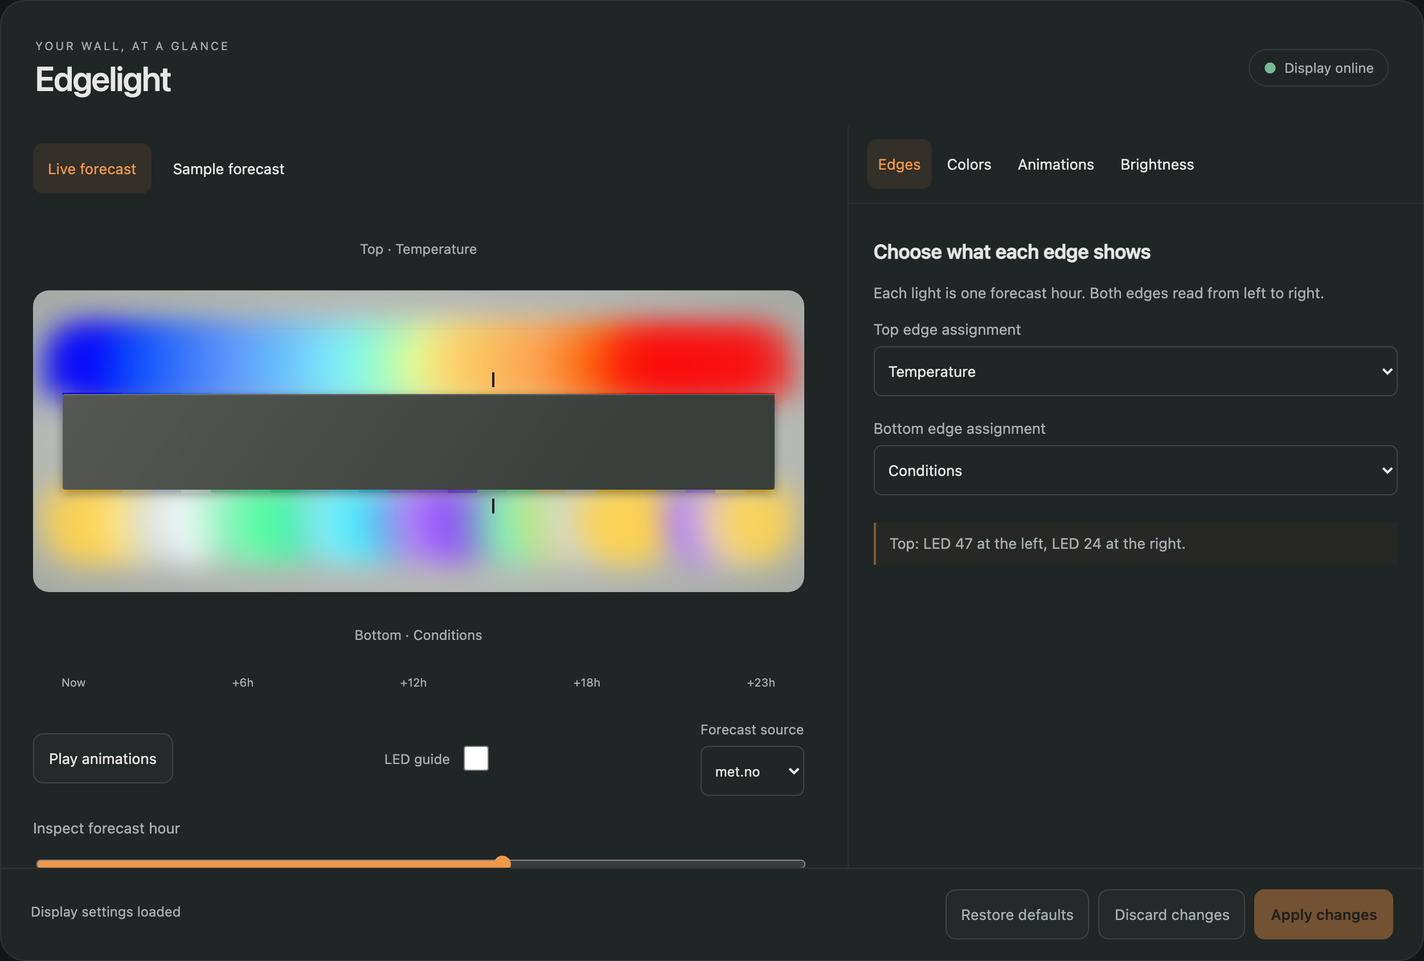
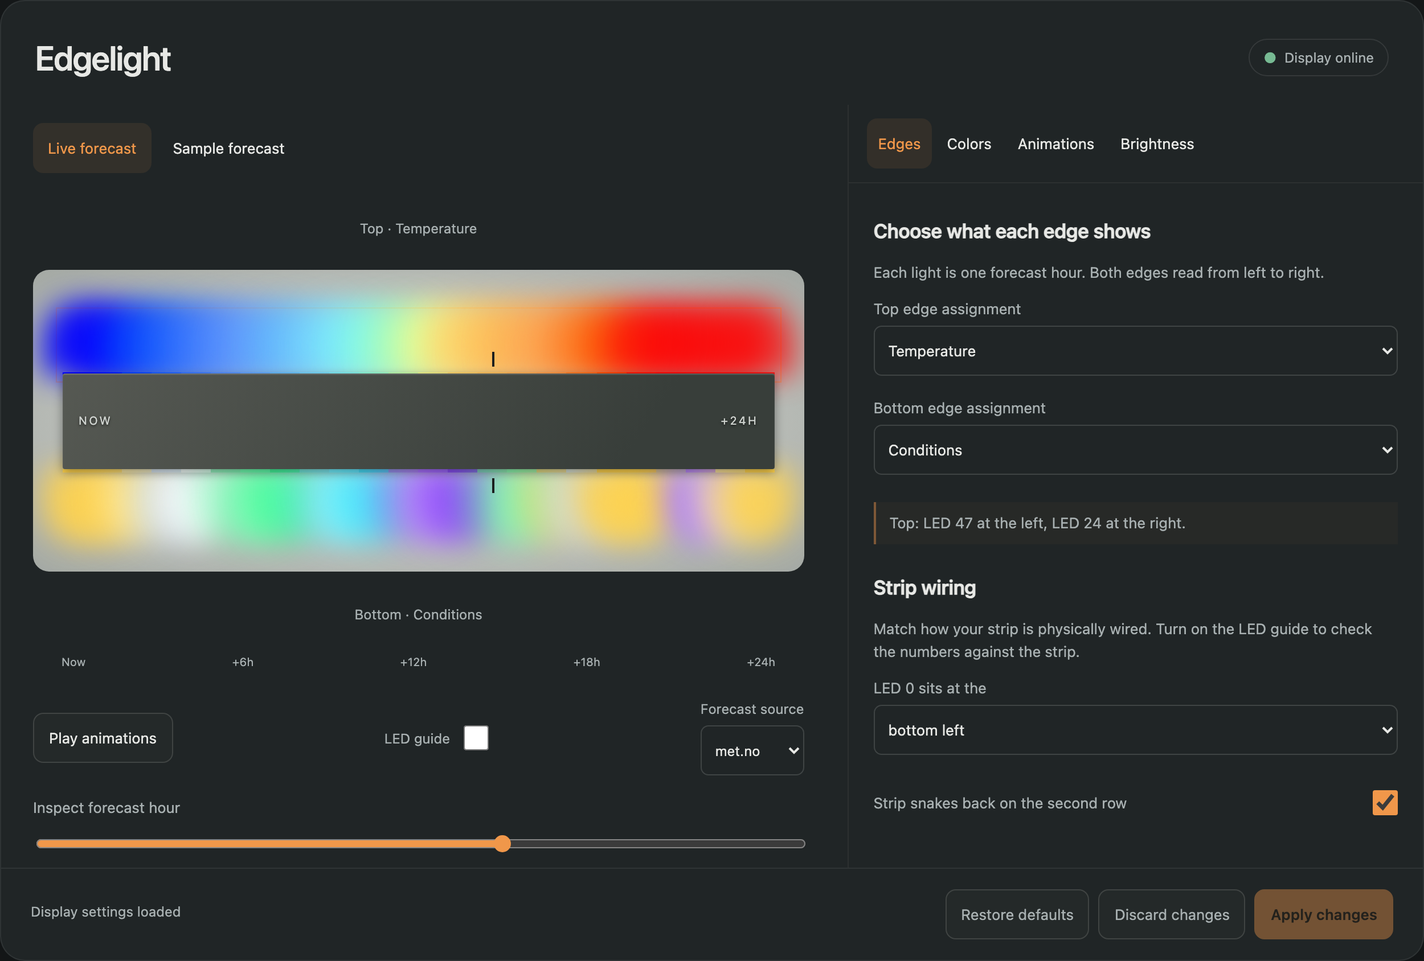
card: drop the header eyebrow and the stops blurb; Now / +24h markers on the bar

diff --git a/web/edgelight.css b/web/edgelight.css
@@ -1,3 +1,3 @@
 :host{display:block;container-type:inline-size;color:var(--text);font-family:var(--paper-font-body1_-_font-family,system-ui);--accent:#f0974a;--surface:var(--ha-card-background,var(--card-background-color,#202526));--text:var(--primary-text-color,#e7e8e5);--muted:var(--secondary-text-color,#a8b0b1)}
-*{box-sizing:border-box}article{display:flex;flex-direction:column;height:calc(100dvh - var(--header-height,56px));background:var(--surface);border:1px solid color-mix(in srgb,var(--text) 8%,transparent);border-radius:22px;overflow:hidden;box-shadow:0 10px 36px #0002}header{display:flex;justify-content:space-between;align-items:center;padding:28px 30px 20px}h2{font-size:30px;font-weight:550;letter-spacing:-1px;margin:4px 0}h3{font-size:17px;font-weight:550;margin:10px 0 16px}.eyebrow{font-size:10px;letter-spacing:1.8px;color:var(--muted)}p,.hint{font-size:13px;line-height:1.6;color:var(--muted)}.connection{font-size:12px;color:var(--muted);border:1px solid color-mix(in srgb,var(--text) 11%,transparent);padding:8px 12px;border-radius:20px}.connection:before{content:'●';margin-right:7px}.connection.online:before{color:#77ba93}.workspace{display:grid;grid-template-columns:minmax(0,1.45fr) minmax(320px,1fr);gap:10px;flex:1;min-height:0}.visual{padding:16px 28px;min-width:0;min-height:0;overflow:auto}.modes{display:flex;gap:6px}.modes button,nav button{border:0;background:transparent}.modes button[aria-pressed=true],nav button[aria-pressed=true]{background:color-mix(in srgb,var(--accent) 9%,transparent);color:var(--accent)}button,select,input{font:inherit}button,select,input:not([type=range]){min-height:44px}button{border:1px solid color-mix(in srgb,var(--text) 14%,transparent);border-radius:9px;background:color-mix(in srgb,var(--text) 2%,transparent);color:inherit;padding:8px 13px;cursor:pointer;font-size:13px}button:hover{background:color-mix(in srgb,var(--text) 7%,transparent)}button:disabled{opacity:.4;cursor:default}button:focus-visible,input:focus-visible,select:focus-visible,[role=button]:focus-visible{outline:2px solid var(--accent);outline-offset:3px}button.primary{background:var(--accent);border-color:var(--accent);color:#291c0f;font-weight:600}.scene{position:relative;margin-top:26px}.wall{position:relative;height:265px;margin:15px 0;background:radial-gradient(ellipse at center,#d6d7d0 0,#bdc0bb 55%,#a4a9a4 100%);border-radius:14px;overflow:hidden;padding:0 26px}.bar{position:absolute;z-index:3;top:91px;left:26px;right:26px;height:84px;background:linear-gradient(125deg,#565953,#383e3a 80%);box-shadow:0 3px 9px #0006,inset 0 1px 1px #ffffff30;border-radius:2px}.edge{display:flex;position:absolute;left:26px;right:26px;height:54px;z-index:2;cursor:pointer}.edge.top{top:39px}.edge.bottom{top:175px}.source{position:relative;flex:1;min-width:0;height:100%;--line:color-mix(in srgb,var(--glow) calc(var(--glow-alpha,1)*100%),transparent)}.top .source{background:linear-gradient(to top,var(--line) 3px,transparent 3px)}.bottom .source{background:linear-gradient(to bottom,var(--line) 3px,transparent 3px)}.source:before{content:'';position:absolute;left:-70%;width:240%;height:65px;background:var(--glow);filter:blur(13px);opacity:calc(var(--glow-alpha,1)*.85);pointer-events:none}.top .source:before{bottom:0;border-radius:70% 70% 0 0}.bottom .source:before{top:0;border-radius:0 0 70% 70%}.source i{display:none}.guide .source i{display:block;position:absolute;font-size:9px;font-style:normal;color:#1c1f1e;left:0;right:0;text-align:center;pointer-events:none}.guide .top .source i{bottom:30px}.guide .bottom .source i{top:28px}.guide .source{border:1px solid #0006}.source.inspected:after{content:'';position:absolute;width:2px;background:#1c1f1e;height:13px;left:50%;z-index:5}.top .source.inspected:after{bottom:8px}.bottom .source.inspected:after{top:8px}.edge-label{display:block;margin:auto;background:transparent;border:0;color:var(--muted);font-size:12px}.edge.selected{outline:1px solid color-mix(in srgb,var(--accent) 50%,transparent);outline-offset:5px}.timeline{display:flex;justify-content:space-between;padding:14px 25px;font-size:10px;color:var(--muted)}.preview-tools{display:flex;align-items:center;justify-content:space-between;gap:8px;flex-wrap:wrap;margin:14px 0}.preview-tools label{font-size:12px}.hour-picker{margin-top:20px}.details{display:flex;justify-content:space-between;gap:10px;padding:18px 0;font-size:14px}.details strong{display:block;font-size:19px;font-weight:500;margin-top:7px}.details small{font-size:11px;color:var(--muted)}.forecast-status{font-size:11px;min-height:20px}.editor{display:flex;flex-direction:column;border-left:1px solid color-mix(in srgb,var(--text) 6%,transparent);min-width:0;min-height:0;overflow:auto}nav{display:flex;gap:3px;flex-wrap:wrap;padding:12px 16px;border-bottom:1px solid color-mix(in srgb,var(--text) 6%,transparent)}nav button{padding:8px 10px}.controls{flex:1;min-height:0;padding:22px;overflow:auto;scrollbar-width:thin;scrollbar-color:color-mix(in srgb,var(--text) 30%,transparent) transparent}.controls>label{margin-bottom:20px}label{display:block;font-size:13px;color:var(--muted)}select,input[type=number],.hex{display:block;width:100%;background:var(--surface);color:var(--text);border:1px solid color-mix(in srgb,var(--text) 16%,transparent);border-radius:7px;padding:8px;margin-top:7px}select{color:var(--text)}input[type=range]{width:100%;accent-color:var(--accent);min-height:44px}input[type=checkbox]{accent-color:var(--accent);width:22px;min-height:44px;margin:0}.toggle{display:flex;justify-content:space-between;align-items:center;gap:12px}.range{display:flex;align-items:center;gap:12px}.range output{width:44px;color:var(--text);font-variant-numeric:tabular-nums}.color-row{display:grid;grid-template-columns:1fr 44px 95px;gap:8px;align-items:center;margin:8px 0}.color-row input[type=color]{padding:2px;width:44px;border:1px solid color-mix(in srgb,var(--text) 13%,transparent);background:none;border-radius:9px;cursor:pointer}.hex{font-family:monospace;font-size:12px;margin:0;padding:6px}.stop{display:grid;grid-template-columns:80px 1fr 44px;gap:8px;align-items:end;margin-bottom:12px}.stop .color-row{grid-template-columns:44px 1fr;margin:0}.stop .color-row>span{display:none}.stop input[type=number]{width:80px}.stop button{padding:4px}.stops+h3,h3:not(:first-child){margin-top:28px}.wet-swatches{display:flex;gap:14px;flex-wrap:wrap;font-size:11px;color:var(--muted);margin:14px 0}.wet-swatches span{display:inline-block;width:22px;height:22px;border-radius:5px;margin:4px 2px;vertical-align:middle}section{padding-bottom:22px;border-bottom:1px solid color-mix(in srgb,var(--text) 8%,transparent);margin-bottom:24px}section>label{margin-bottom:12px}.hint{border-left:2px solid color-mix(in srgb,var(--accent) 44%,transparent);padding:8px 12px;background:color-mix(in srgb,var(--accent) 3%,transparent);margin-top:24px}footer{border-top:1px solid color-mix(in srgb,var(--text) 8%,transparent);padding:18px 26px;display:flex;justify-content:space-between;align-items:center;gap:20px;font-size:12px;color:var(--muted)}#validation{color:#f19e91;display:block;margin-top:5px}.actions{display:flex;gap:8px;flex-wrap:wrap}
-@container (max-width:800px){article{height:auto}.workspace{grid-template-columns:1fr}.editor{border-left:0;border-top:1px solid color-mix(in srgb,var(--text) 8%,transparent);overflow:visible}.controls{flex:none;min-height:auto;overflow:visible}.visual{padding:12px 18px;overflow:visible}.wall{height:240px;padding:0 15px}.bar{left:15px;right:15px}.edge{left:15px;right:15px}header{padding:20px}.connection{font-size:10px}.scene{margin-top:10px}footer{flex-direction:column;align-items:stretch;padding:18px}.actions{justify-content:flex-end}.guide .source i{font-size:7px}.preview-tools{gap:4px}.stop{grid-template-columns:70px 1fr 44px}.stop input[type=number]{width:70px}nav{justify-content:space-between}}
+*{box-sizing:border-box}article{display:flex;flex-direction:column;height:calc(100dvh - var(--header-height,56px));background:var(--surface);border:1px solid color-mix(in srgb,var(--text) 8%,transparent);border-radius:22px;overflow:hidden;box-shadow:0 10px 36px #0002}header{display:flex;justify-content:space-between;align-items:center;padding:28px 30px 20px}h2{font-size:30px;font-weight:550;letter-spacing:-1px;margin:4px 0}h3{font-size:17px;font-weight:550;margin:10px 0 16px}.eyebrow{font-size:10px;letter-spacing:1.8px;color:var(--muted)}p,.hint{font-size:13px;line-height:1.6;color:var(--muted)}.connection{font-size:12px;color:var(--muted);border:1px solid color-mix(in srgb,var(--text) 11%,transparent);padding:8px 12px;border-radius:20px}.connection:before{content:'●';margin-right:7px}.connection.online:before{color:#77ba93}.workspace{display:grid;grid-template-columns:minmax(0,1.45fr) minmax(320px,1fr);gap:10px;flex:1;min-height:0}.visual{padding:16px 28px;min-width:0;min-height:0;overflow:auto}.modes{display:flex;gap:6px}.modes button,nav button{border:0;background:transparent}.modes button[aria-pressed=true],nav button[aria-pressed=true]{background:color-mix(in srgb,var(--accent) 9%,transparent);color:var(--accent)}button,select,input{font:inherit}button,select,input:not([type=range]){min-height:44px}button{border:1px solid color-mix(in srgb,var(--text) 14%,transparent);border-radius:9px;background:color-mix(in srgb,var(--text) 2%,transparent);color:inherit;padding:8px 13px;cursor:pointer;font-size:13px}button:hover{background:color-mix(in srgb,var(--text) 7%,transparent)}button:disabled{opacity:.4;cursor:default}button:focus-visible,input:focus-visible,select:focus-visible,[role=button]:focus-visible{outline:2px solid var(--accent);outline-offset:3px}button.primary{background:var(--accent);border-color:var(--accent);color:#291c0f;font-weight:600}.scene{position:relative;margin-top:26px}.wall{position:relative;height:265px;margin:15px 0;background:radial-gradient(ellipse at center,#d6d7d0 0,#bdc0bb 55%,#a4a9a4 100%);border-radius:14px;overflow:hidden;padding:0 26px}.bar{position:absolute;z-index:3;top:91px;left:26px;right:26px;height:84px;background:linear-gradient(125deg,#565953,#383e3a 80%);box-shadow:0 3px 9px #0006,inset 0 1px 1px #ffffff30;border-radius:2px}.marker{position:absolute;z-index:4;top:126px;font-size:10px;letter-spacing:1.6px;text-transform:uppercase;color:#cfd3cf;text-shadow:0 1px 2px #0008;pointer-events:none}.marker-now{left:40px}.marker-later{right:40px}.edge{display:flex;position:absolute;left:26px;right:26px;height:54px;z-index:2;cursor:pointer}.edge.top{top:39px}.edge.bottom{top:175px}.source{position:relative;flex:1;min-width:0;height:100%;--line:color-mix(in srgb,var(--glow) calc(var(--glow-alpha,1)*100%),transparent)}.top .source{background:linear-gradient(to top,var(--line) 3px,transparent 3px)}.bottom .source{background:linear-gradient(to bottom,var(--line) 3px,transparent 3px)}.source:before{content:'';position:absolute;left:-70%;width:240%;height:65px;background:var(--glow);filter:blur(13px);opacity:calc(var(--glow-alpha,1)*.85);pointer-events:none}.top .source:before{bottom:0;border-radius:70% 70% 0 0}.bottom .source:before{top:0;border-radius:0 0 70% 70%}.source i{display:none}.guide .source i{display:block;position:absolute;font-size:9px;font-style:normal;color:#1c1f1e;left:0;right:0;text-align:center;pointer-events:none}.guide .top .source i{bottom:30px}.guide .bottom .source i{top:28px}.guide .source{border:1px solid #0006}.source.inspected:after{content:'';position:absolute;width:2px;background:#1c1f1e;height:13px;left:50%;z-index:5}.top .source.inspected:after{bottom:8px}.bottom .source.inspected:after{top:8px}.edge-label{display:block;margin:auto;background:transparent;border:0;color:var(--muted);font-size:12px}.edge.selected{outline:1px solid color-mix(in srgb,var(--accent) 50%,transparent);outline-offset:5px}.timeline{display:flex;justify-content:space-between;padding:14px 25px;font-size:10px;color:var(--muted)}.preview-tools{display:flex;align-items:center;justify-content:space-between;gap:8px;flex-wrap:wrap;margin:14px 0}.preview-tools label{font-size:12px}.hour-picker{margin-top:20px}.details{display:flex;justify-content:space-between;gap:10px;padding:18px 0;font-size:14px}.details strong{display:block;font-size:19px;font-weight:500;margin-top:7px}.details small{font-size:11px;color:var(--muted)}.forecast-status{font-size:11px;min-height:20px}.editor{display:flex;flex-direction:column;border-left:1px solid color-mix(in srgb,var(--text) 6%,transparent);min-width:0;min-height:0;overflow:auto}nav{display:flex;gap:3px;flex-wrap:wrap;padding:12px 16px;border-bottom:1px solid color-mix(in srgb,var(--text) 6%,transparent)}nav button{padding:8px 10px}.controls{flex:1;min-height:0;padding:22px;overflow:auto;scrollbar-width:thin;scrollbar-color:color-mix(in srgb,var(--text) 30%,transparent) transparent}.controls>label{margin-bottom:20px}label{display:block;font-size:13px;color:var(--muted)}select,input[type=number],.hex{display:block;width:100%;background:var(--surface);color:var(--text);border:1px solid color-mix(in srgb,var(--text) 16%,transparent);border-radius:7px;padding:8px;margin-top:7px}select{color:var(--text)}input[type=range]{width:100%;accent-color:var(--accent);min-height:44px}input[type=checkbox]{accent-color:var(--accent);width:22px;min-height:44px;margin:0}.toggle{display:flex;justify-content:space-between;align-items:center;gap:12px}.range{display:flex;align-items:center;gap:12px}.range output{width:44px;color:var(--text);font-variant-numeric:tabular-nums}.color-row{display:grid;grid-template-columns:1fr 44px 95px;gap:8px;align-items:center;margin:8px 0}.color-row input[type=color]{padding:2px;width:44px;border:1px solid color-mix(in srgb,var(--text) 13%,transparent);background:none;border-radius:9px;cursor:pointer}.hex{font-family:monospace;font-size:12px;margin:0;padding:6px}.stop{display:grid;grid-template-columns:80px 1fr 44px;gap:8px;align-items:end;margin-bottom:12px}.stop .color-row{grid-template-columns:44px 1fr;margin:0}.stop .color-row>span{display:none}.stop input[type=number]{width:80px}.stop button{padding:4px}.stops+h3,h3:not(:first-child){margin-top:28px}.wet-swatches{display:flex;gap:14px;flex-wrap:wrap;font-size:11px;color:var(--muted);margin:14px 0}.wet-swatches span{display:inline-block;width:22px;height:22px;border-radius:5px;margin:4px 2px;vertical-align:middle}section{padding-bottom:22px;border-bottom:1px solid color-mix(in srgb,var(--text) 8%,transparent);margin-bottom:24px}section>label{margin-bottom:12px}.hint{border-left:2px solid color-mix(in srgb,var(--accent) 44%,transparent);padding:8px 12px;background:color-mix(in srgb,var(--accent) 3%,transparent);margin-top:24px}footer{border-top:1px solid color-mix(in srgb,var(--text) 8%,transparent);padding:18px 26px;display:flex;justify-content:space-between;align-items:center;gap:20px;font-size:12px;color:var(--muted)}#validation{color:#f19e91;display:block;margin-top:5px}.actions{display:flex;gap:8px;flex-wrap:wrap}
+@container (max-width:800px){article{height:auto}.workspace{grid-template-columns:1fr}.editor{border-left:0;border-top:1px solid color-mix(in srgb,var(--text) 8%,transparent);overflow:visible}.controls{flex:none;min-height:auto;overflow:visible}.visual{padding:12px 18px;overflow:visible}.wall{height:240px;padding:0 15px}.bar{left:15px;right:15px}.marker-now{left:26px}.marker-later{right:26px}.edge{left:15px;right:15px}header{padding:20px}.connection{font-size:10px}.scene{margin-top:10px}footer{flex-direction:column;align-items:stretch;padding:18px}.actions{justify-content:flex-end}.guide .source i{font-size:7px}.preview-tools{gap:4px}.stop{grid-template-columns:70px 1fr 44px}.stop input[type=number]{width:70px}nav{justify-content:space-between}}

diff --git a/web/edgelight-card.js b/web/edgelight-card.js
@@ -98,7 +98,7 @@ export class EdgelightDisplayCard extends LitElement {
     if(this.section==='assignments'){const L=this.lastValid||defaults(),row=this.edge==='top'?0:1;
       return html`<h3>Choose what each edge shows</h3><p>Each light is one forecast hour. Both edges read from left to right.</p>${['top','bottom'].map(r=>this.select(r,`${r==='top'?'Top':'Bottom'} edge assignment`,Object.entries(labels).filter(([v])=>v!=='both')))}<div class="hint">${this.edge==='top'?'Top':'Bottom'}: LED ${ledFor(L,row,0)} at the left, LED ${ledFor(L,row,23)} at the right.</div>
       <h3>Strip wiring</h3><p>Match how your strip is physically wired. Turn on the LED guide to check the numbers against the strip.</p>${this.select('layout.origin','LED 0 sits at the',origins.map(o=>[o,o.replace('-',' ')]))}${this.toggle('layout.serpentine','Strip snakes back on the second row')}`;}
-    if(this.section==='colors')return html`<h3>Temperature colors</h3><p>Colors blend smoothly between stops.</p><label>Temperature unit<select id="units" .value=${this.units} ?disabled=${busy} @change=${e=>{this.units=e.target.value;this.requestUpdate();}}><option value="F">F</option><option value="C">C</option></select></label><div class="stops">${c.temperature.map((s,i)=>html`<div class="stop"><label>Stop ${i+1} °${this.units}<input type="number" data-stop=${i} aria-label="Stop ${i+1} temperature" step="any" .value=${String(format(this.units==='F'?s.value:(s.value-32)/1.8))} ?disabled=${busy} @change=${e=>this.edit(`temperature.${i}.value`,e.target.value===''?NaN:this.units==='F'?Number(e.target.value):Number(e.target.value)*1.8+32)}></label>${this.color(`temperature.${i}.color`,`Stop ${i+1}`)}<button data-remove=${i} aria-label="Remove stop ${i+1}" ?disabled=${busy||c.temperature.length<=2} @click=${()=>{this.draft.temperature.splice(i,1);this.dirty=true;this.message='Unsaved changes';this.requestUpdate();}}>×</button></div>`)}</div><button id="add-stop" ?disabled=${busy||c.temperature.length>=16} @click=${()=>this.addStop()}>Add color stop</button><h3>Condition colors</h3>${names.map((n,i)=>this.color(`conditions.${i}`,n))}${this.toggle('wet','Show precipitation strength')}<p>Light → medium → heavy. Derived from your Rain, Snow, and Sleet colors.</p><div class="wet-swatches">${[4,5,6].map(i=>html`<div>${names[i]}${[1,4,8].map((p,j)=>html`<span title=${['Light','Medium','Heavy'][j]} style="background:${hex(wetColor(parseInt(c.conditions[i].slice(1),16),p))}"></span>`)}</div>`)}</div>`;
+    if(this.section==='colors')return html`<h3>Temperature colors</h3><label>Temperature unit<select id="units" .value=${this.units} ?disabled=${busy} @change=${e=>{this.units=e.target.value;this.requestUpdate();}}><option value="F">F</option><option value="C">C</option></select></label><div class="stops">${c.temperature.map((s,i)=>html`<div class="stop"><label>Stop ${i+1} °${this.units}<input type="number" data-stop=${i} aria-label="Stop ${i+1} temperature" step="any" .value=${String(format(this.units==='F'?s.value:(s.value-32)/1.8))} ?disabled=${busy} @change=${e=>this.edit(`temperature.${i}.value`,e.target.value===''?NaN:this.units==='F'?Number(e.target.value):Number(e.target.value)*1.8+32)}></label>${this.color(`temperature.${i}.color`,`Stop ${i+1}`)}<button data-remove=${i} aria-label="Remove stop ${i+1}" ?disabled=${busy||c.temperature.length<=2} @click=${()=>{this.draft.temperature.splice(i,1);this.dirty=true;this.message='Unsaved changes';this.requestUpdate();}}>×</button></div>`)}</div><button id="add-stop" ?disabled=${busy||c.temperature.length>=16} @click=${()=>this.addStop()}>Add color stop</button><h3>Condition colors</h3>${names.map((n,i)=>this.color(`conditions.${i}`,n))}${this.toggle('wet','Show precipitation strength')}<p>Light → medium → heavy. Derived from your Rain, Snow, and Sleet colors.</p><div class="wet-swatches">${[4,5,6].map(i=>html`<div>${names[i]}${[1,4,8].map((p,j)=>html`<span title=${['Light','Medium','Heavy'][j]} style="background:${hex(wetColor(parseInt(c.conditions[i].slice(1),16),p))}"></span>`)}</div>`)}</div>`;
     if(this.section==='animations')return ['breathing','wind','lightning'].map(name=>html`<section><h3>${{breathing:'Sunrise / sunset breathing',wind:'Wind shimmer',lightning:'Lightning'}[name]}</h3>${this.toggle(`animations.${name}.enabled`,`${name[0].toUpperCase()+name.slice(1)} enabled`)}${this.slider(`animations.${name}.speed`,`${name} speed`,.25,4,.05)}${this.slider(`animations.${name}.strength`,`${name} strength`,0,100)}${name==='wind'?html`${this.select('animations.wind.target','Wind effect on',[['temperature','Temperature'],['conditions','Conditions'],['both','Both']])}${this.select('animations.wind.threshold','Wind starts at',[5,10,15,20,30,40,50].map(v=>[v,`${v} mph`]))}`:nothing}${name==='lightning'?this.color('animations.lightning.color','Lightning bolt'):nothing}<button data-sample=${name} ?disabled=${busy} @click=${()=>this.previewSample(name)}>Preview ${name}</button></section>`);
     return html`<h3>Room brightness</h3>${this.slider('dayBrightness','Day brightness',0,100,.1)}${this.slider('nightBrightness','Night brightness',0,100,.1)}<p>Applies to both edges after colors and effects. The preview approximates wall glow; actual brightness depends on your LEDs and room.</p>`;
   }
@@ -113,9 +113,9 @@ export class EdgelightDisplayCard extends LitElement {
     const applyDisabled=!this.online||!this.accepted||!!error||!!this.conflict||(!this.dirty&&!this.pending);
     const f=this.forecast();
     return html`<link rel="stylesheet" href=${new URL('./edgelight.css',import.meta.url)}><article>
-      <header><div><span class="eyebrow">YOUR WALL, AT A GLANCE</span><h2>Edgelight</h2></div><span class="connection ${this.online?'online':''}">${this.online?'Display online':'Display offline'}</span></header>
+      <header><div><h2>Edgelight</h2></div><span class="connection ${this.online?'online':''}">${this.online?'Display online':'Display offline'}</span></header>
       <div class="workspace"><div class="visual"><div class="modes"><button data-mode="live" aria-pressed=${this.mode==='live'} @click=${()=>{this.mode='live';this.requestUpdate();}}>Live forecast</button><button data-mode="sample" aria-pressed=${this.mode==='sample'} @click=${()=>{this.mode='sample';this.requestUpdate();}}>Sample forecast</button></div>
-      <div class="scene"><button class="edge-label top-label" data-edge="top" @click=${()=>this.selectEdge('top')}>Top · ${labels[this.draft.top]}</button><div class="wall ${this.guide?'guide':''}"><div class="edge top ${this.edge==='top'?'selected':''}" data-edge="top" role="button" tabindex="0" aria-label="Select top edge" @click=${()=>this.selectEdge('top')} @keydown=${e=>{if(['Enter',' '].includes(e.key)){e.preventDefault();this.selectEdge('top');}}}>${this.sources(0)}</div><div class="bar"></div><div class="edge bottom ${this.edge==='bottom'?'selected':''}" data-edge="bottom" role="button" tabindex="0" aria-label="Select bottom edge" @click=${()=>this.selectEdge('bottom')} @keydown=${e=>{if(['Enter',' '].includes(e.key)){e.preventDefault();this.selectEdge('bottom');}}}>${this.sources(1)}</div></div><button class="edge-label bottom-label" data-edge="bottom" @click=${()=>this.selectEdge('bottom')}>Bottom · ${labels[this.draft.bottom]}</button><div class="timeline"><span>Now</span><span>+6h</span><span>+12h</span><span>+18h</span><span>+23h</span></div></div>
+      <div class="scene"><button class="edge-label top-label" data-edge="top" @click=${()=>this.selectEdge('top')}>Top · ${labels[this.draft.top]}</button><div class="wall ${this.guide?'guide':''}"><div class="edge top ${this.edge==='top'?'selected':''}" data-edge="top" role="button" tabindex="0" aria-label="Select top edge" @click=${()=>this.selectEdge('top')} @keydown=${e=>{if(['Enter',' '].includes(e.key)){e.preventDefault();this.selectEdge('top');}}}>${this.sources(0)}</div><div class="bar"></div><span class="marker marker-now">Now</span><span class="marker marker-later">+24h</span><div class="edge bottom ${this.edge==='bottom'?'selected':''}" data-edge="bottom" role="button" tabindex="0" aria-label="Select bottom edge" @click=${()=>this.selectEdge('bottom')} @keydown=${e=>{if(['Enter',' '].includes(e.key)){e.preventDefault();this.selectEdge('bottom');}}}>${this.sources(1)}</div></div><button class="edge-label bottom-label" data-edge="bottom" @click=${()=>this.selectEdge('bottom')}>Bottom · ${labels[this.draft.bottom]}</button><div class="timeline"><span>Now</span><span>+6h</span><span>+12h</span><span>+18h</span><span>+24h</span></div></div>
       <div class="preview-tools"><button id="play" @click=${()=>{this.playing=!this.playing;this.requestUpdate();}}>${this.playing?'Pause animations':'Play animations'}</button><label class="toggle">LED guide<input id="guide" type="checkbox" .checked=${this.guide} @change=${e=>{this.guide=e.target.checked;this.requestUpdate();}}></label>${this.mode==='live'?this.sourcePicker():nothing}${this.mode==='sample'?html`<label>Sample lighting<select id="night" .value=${this.night} @change=${e=>{this.night=e.target.value;this.requestUpdate();}}><option value="forecast">Day and night</option><option value="day">All day</option><option value="night">All night</option></select></label>`:nothing}</div>
       <label class="hour-picker">Inspect forecast hour<input id="hour" type="range" min="0" max="23" .value=${String(this.hour)} aria-label="Forecast hour" @input=${e=>{this.hour=Number(e.target.value);this.requestUpdate();}}></label>${this.details(f)}<p class="forecast-status" id="forecast-status">${this.forecastStatus(f)}</p>
       </div><div class="editor"><nav>${[['assignments','Edges'],['colors','Colors'],['animations','Animations'],['brightness','Brightness']].map(([id,title])=>html`<button data-section=${id} aria-pressed=${this.section===id} @click=${()=>{this.section=id;this.requestUpdate();}}>${title}</button>`)}</nav><div class="controls">${this.controls()}</div></div></div>
